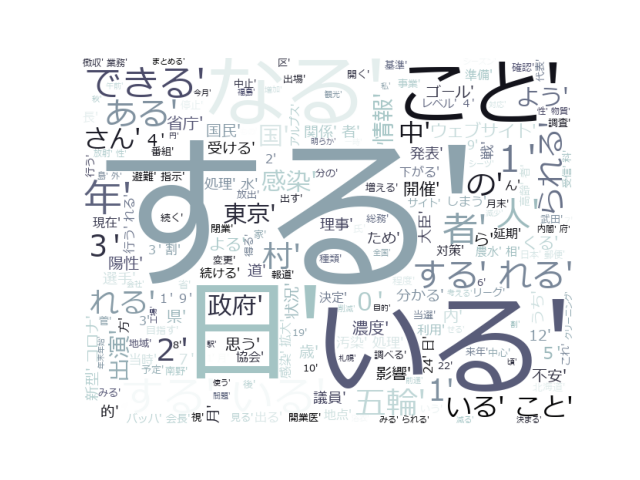
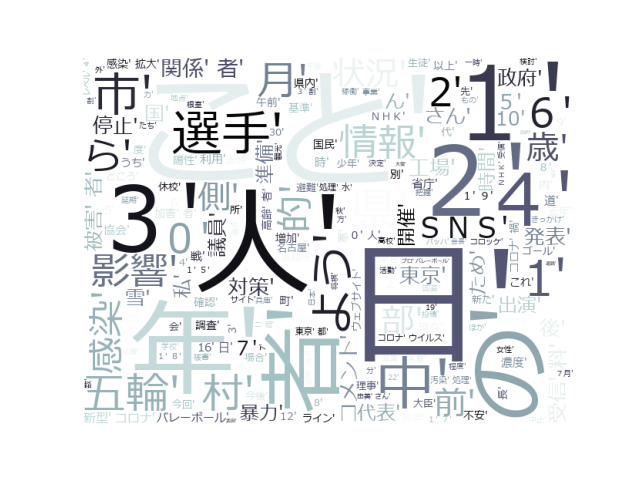
Add files via upload

Changed region(s): [[0.125, 0.0938, 0.9062, 0.9062]]

diff --git a/python/opt/keitaiso.py b/python/opt/keitaiso.py
@@ -22,7 +22,8 @@ for file in files_file:
     for row in df.itertuples():
         tokens = t.tokenize(row[2])
         pos = [token.base_form for token in tokens
-            if token.part_of_speech.split(',')[0] in ["名詞", "動詞"]]
+#            if token.part_of_speech.split(',')[0] in ["名詞", "動詞"]]
+            if token.part_of_speech.split(',')[0] in ["名詞"]]
         print(pos)
         word_list.append(pos)
 
